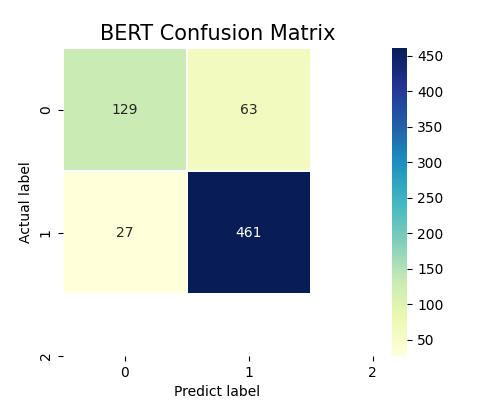
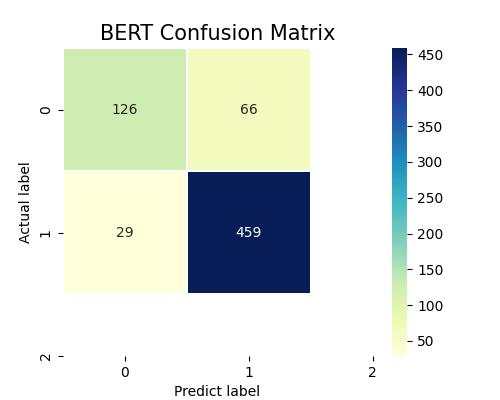
no message

diff --git a/code/bert-training-gpt4o-2.py b/code/bert-training-gpt4o-2.py
@@ -285,7 +285,7 @@ if __name__ == "__main__":
     print(torch.__version__, torch.cuda.is_available())
     setup_seed(random_seed)
 
-    df_train = pd.read_csv("new_data/docs_0804/Final_GPT4o/gpt4o_type1_merge_train_df_2_20240812.csv")
+    df_train = pd.read_csv("new_data/docs_0804/Final_GPT4o/gpt4o_type1_merge_train_df_2_20240812_1.csv")
     df_val = pd.read_csv("new_data/docs_0804/Final_Origin/Type1_Result/val_df_2.csv")
     df_test = pd.read_csv("new_data/docs_0804/Final_Origin/Type1_Result/test_df_2.csv")
 
